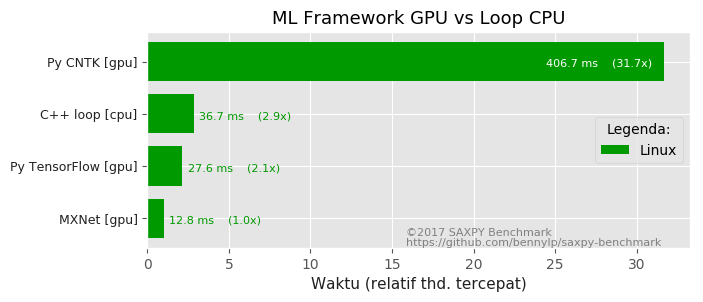
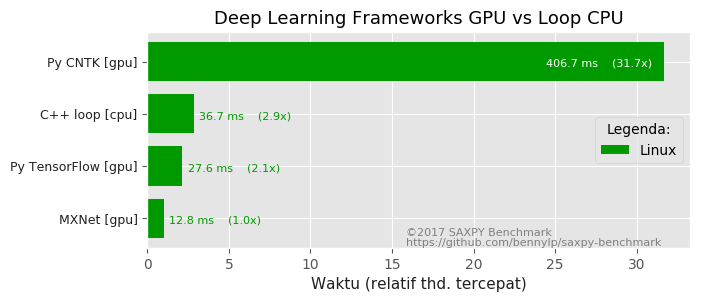
Fixed anchor generation

Changed region(s): [[0.2987, 0.0298, 0.8962, 0.0894]]

diff --git a/results/create_charts.py b/results/create_charts.py
@@ -248,6 +248,9 @@ def create_front_page():
             if c.isalnum():
                 a += c
                 last = c
+            elif c in ["&"]:
+                a += "-"
+                last = "-"
             elif c in ["."]:
                 pass
             elif last != "-":
@@ -279,7 +282,7 @@ def create_front_page():
         for remark in spec.get('remarks', []):
             doc += remark + "\n\n"
         if 'exclude' in spec:
-            doc += "**Excluded** from the charts:\n"
+            doc += "**Excluded** from this chart:\n"
             for col in spec.get('exclude', []):
                 doc += "- {} ([src/{}](src/{}))\n".format(col,
                                                           known_columns[col], known_columns[col])

diff --git a/README.md b/README.md
@@ -9,12 +9,12 @@
    - [Python: Loop vs Numpy vs Pandas (CPU)](#python-loop-vs-numpy-vs-pandas-cpu)
    - [Julia: Loop vs Vector (CPU)](#julia-loop-vs-vector-cpu)
    - [Numpy vs Octave vs R vs Java vs Julia vs C++ (CPU)](#numpy-vs-octave-vs-r-vs-java-vs-julia-vs-c-cpu)
-   - [Python Vectorization: Numpy vs Machine Learning Frameworks (CPU)](#python-vectorization-numpy-vs-machine-learning-frameworks-cpu)
-   - [Numpy vs ML Frameworks (GPU and CPU)](#numpy-vs-ml-frameworks-gpu-and-cpu)
-   - [ML Framework GPU vs Loop CPU](#ml-framework-gpu-vs-loop-cpu)
+   - [Python Vectorization: Numpy vs Deep Learning Frameworks (CPU)](#python-vectorization-numpy-vs-deep-learning-frameworks-cpu)
+   - [Numpy vs Deep Learning Frameworks (GPU and CPU)](#numpy-vs-deep-learning-frameworks-gpu-and-cpu)
+   - [Deep Learning Frameworks GPU vs Loop CPU](#deep-learning-frameworks-gpu-vs-loop-cpu)
    - [C++ Parallel APIs (CPU)](#c-parallel-apis-cpu)
    - [C++ CPU vs GPU](#c-cpu-vs-gpu)
-   - [OpenCL vs PyOpenCL (CPU & GPU)](#opencl-vs-pyopencl-cpu-gpu)
+   - [OpenCL vs PyOpenCL (CPU & GPU)](#opencl-vs-pyopencl-cpu--gpu)
    - [PyCUDA vs C++ (GPU)](#pycuda-vs-c-gpu)
    - [Tensorflow: Python vs C++ (GPU)](#tensorflow-python-vs-c-gpu)
    - [Linux Conclusion](#linux-conclusion)
@@ -88,7 +88,7 @@ Comparison among different programming languages
 
 ![results/charts-en/script-vs-script-vs-java-vs-c++-cpu.png](results/charts-en/script-vs-script-vs-java-vs-c++-cpu.png?raw=true "results/charts-en/script-vs-script-vs-java-vs-c++-cpu.png")
 
-## Python Vectorization: Numpy vs Machine Learning Frameworks (CPU)
+## Python Vectorization: Numpy vs Deep Learning Frameworks (CPU)
 
 SAXPY array operation in Numpy vs machine learning frameworks such as Tensorflow, MXNet, and CNTK. Only tested on Linux.
 
@@ -101,9 +101,9 @@ Note: CNTK result is way off, not sure why. Please have a look at the source cod
 
 ![results/charts-en/vectorized-numpy-vs-frameworks-cpu.png](results/charts-en/vectorized-numpy-vs-frameworks-cpu.png?raw=true "results/charts-en/vectorized-numpy-vs-frameworks-cpu.png")
 
-## Numpy vs ML Frameworks (GPU and CPU)
+## Numpy vs Deep Learning Frameworks (GPU and CPU)
 
-Same as above, but compare on GPU as well
+Same as above, but on GPU as well
 
 - Py Numpy [cpu] ([src/saxpy_numpy.py](src/saxpy_numpy.py))
 - Py TensorFlow [cpu] ([src/saxpy_tf.py](src/saxpy_tf.py))
@@ -115,7 +115,7 @@ Same as above, but compare on GPU as well
 
 ![results/charts-en/vectorized-numpy-vs-frameworks-gpu.png](results/charts-en/vectorized-numpy-vs-frameworks-gpu.png?raw=true "results/charts-en/vectorized-numpy-vs-frameworks-gpu.png")
 
-## ML Framework GPU vs Loop CPU
+## Deep Learning Frameworks GPU vs Loop CPU
 
 Comparing frameworks running on GPU with naive C++ loop running on CPU.
 
@@ -179,7 +179,7 @@ Comparing Tensorflow C++ and Python performance
 
 ## Linux Conclusion
 
-**Excluded** from the charts:
+**Excluded** from this chart:
 - Python loop [cpu] ([src/saxpy_loop.py](src/saxpy_loop.py))
 - R (loop) [cpu] ([src/saxpy_loop.R](src/saxpy_loop.R))
 
@@ -187,7 +187,7 @@ Comparing Tensorflow C++ and Python performance
 
 ## Windows Conclusion
 
-**Excluded** from the charts:
+**Excluded** from this chart:
 - Python loop [cpu] ([src/saxpy_loop.py](src/saxpy_loop.py))
 - R (loop) [cpu] ([src/saxpy_loop.R](src/saxpy_loop.R))
 - C++ TensorFlow [gpu] ([src/saxpy_tf.cc](src/saxpy_tf.cc))
@@ -198,7 +198,7 @@ Comparing Tensorflow C++ and Python performance
 
 ## Conclusion
 
-**Excluded** from the charts:
+**Excluded** from this chart:
 - Python loop [cpu] ([src/saxpy_loop.py](src/saxpy_loop.py))
 - R (loop) [cpu] ([src/saxpy_loop.R](src/saxpy_loop.R))
 - C++ TensorFlow [gpu] ([src/saxpy_tf.cc](src/saxpy_tf.cc))
